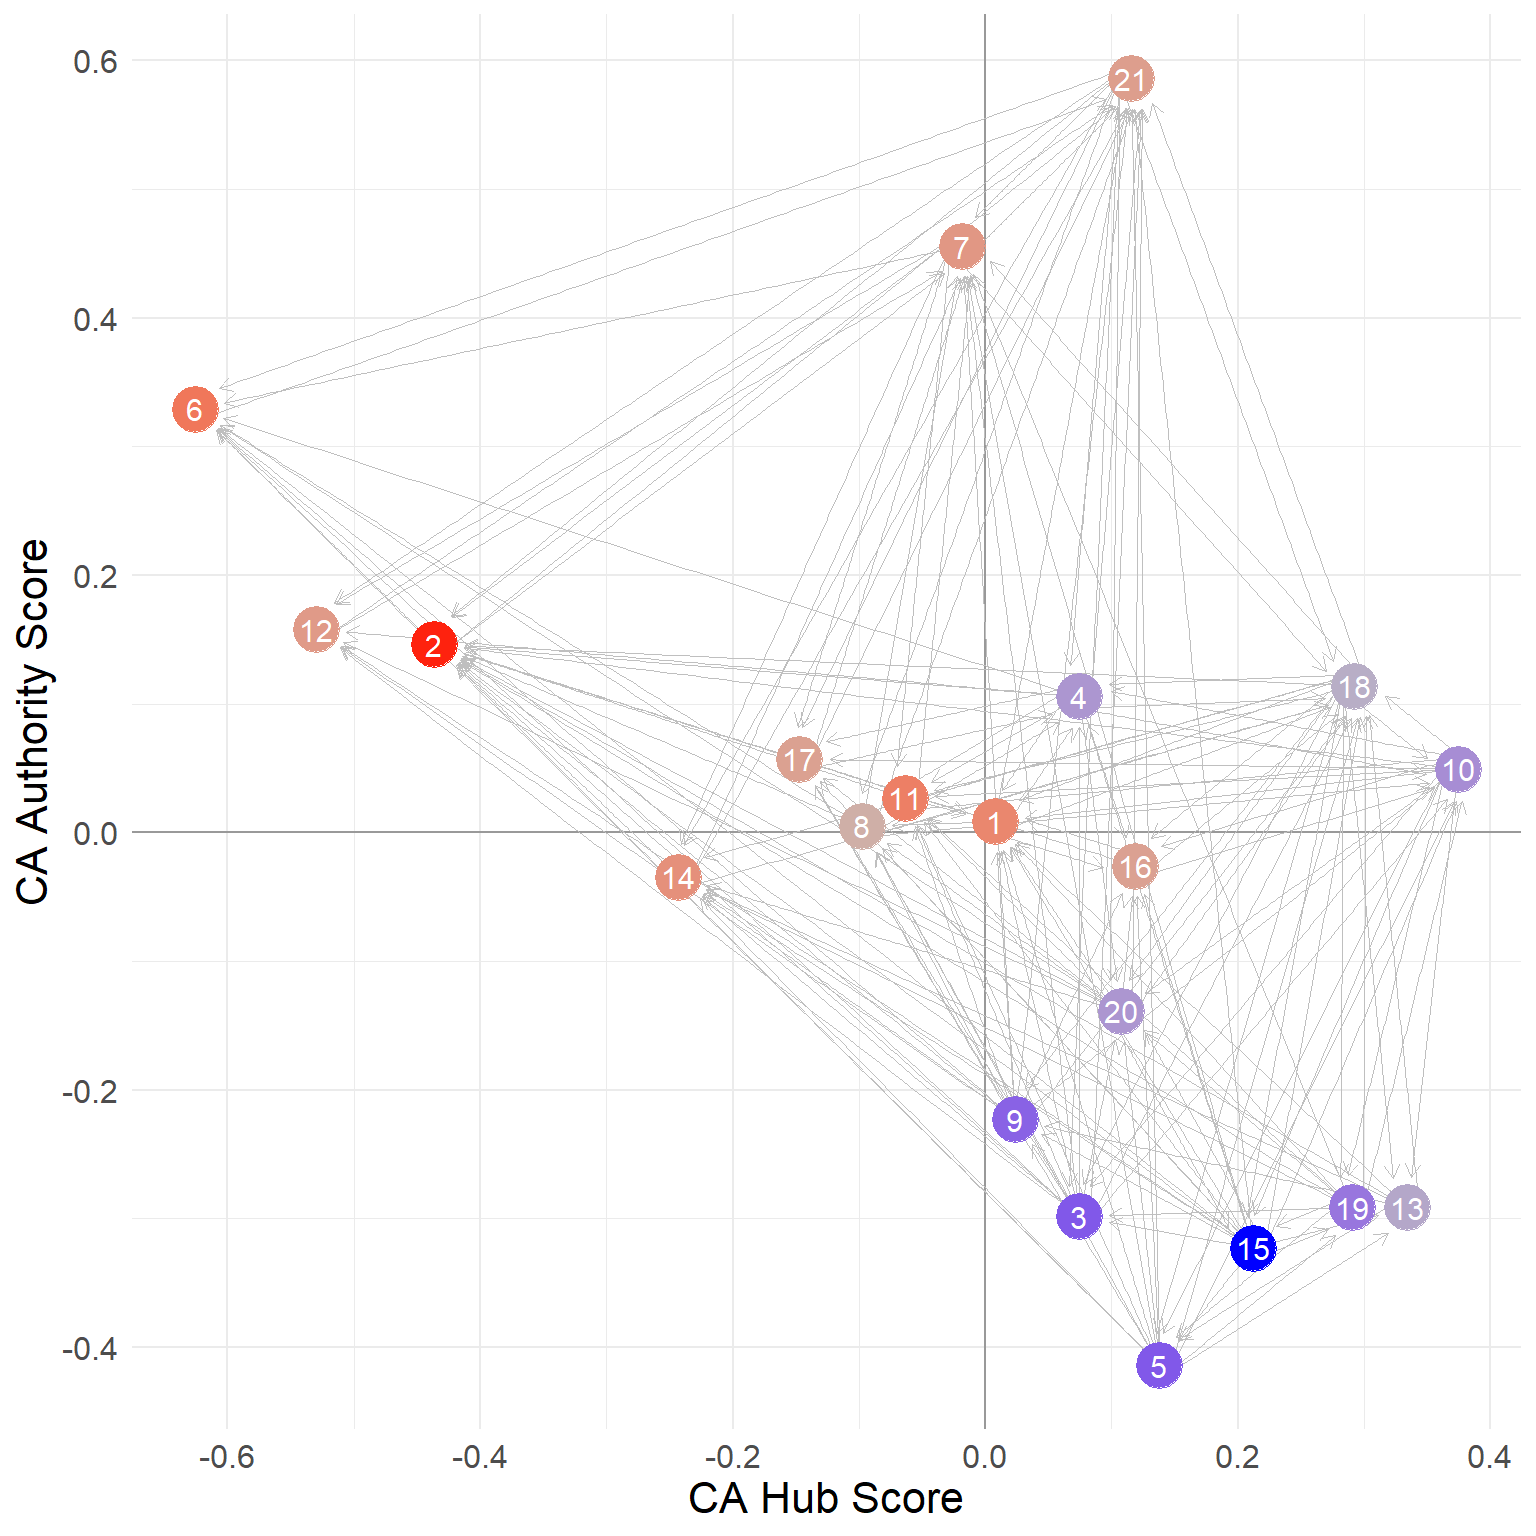
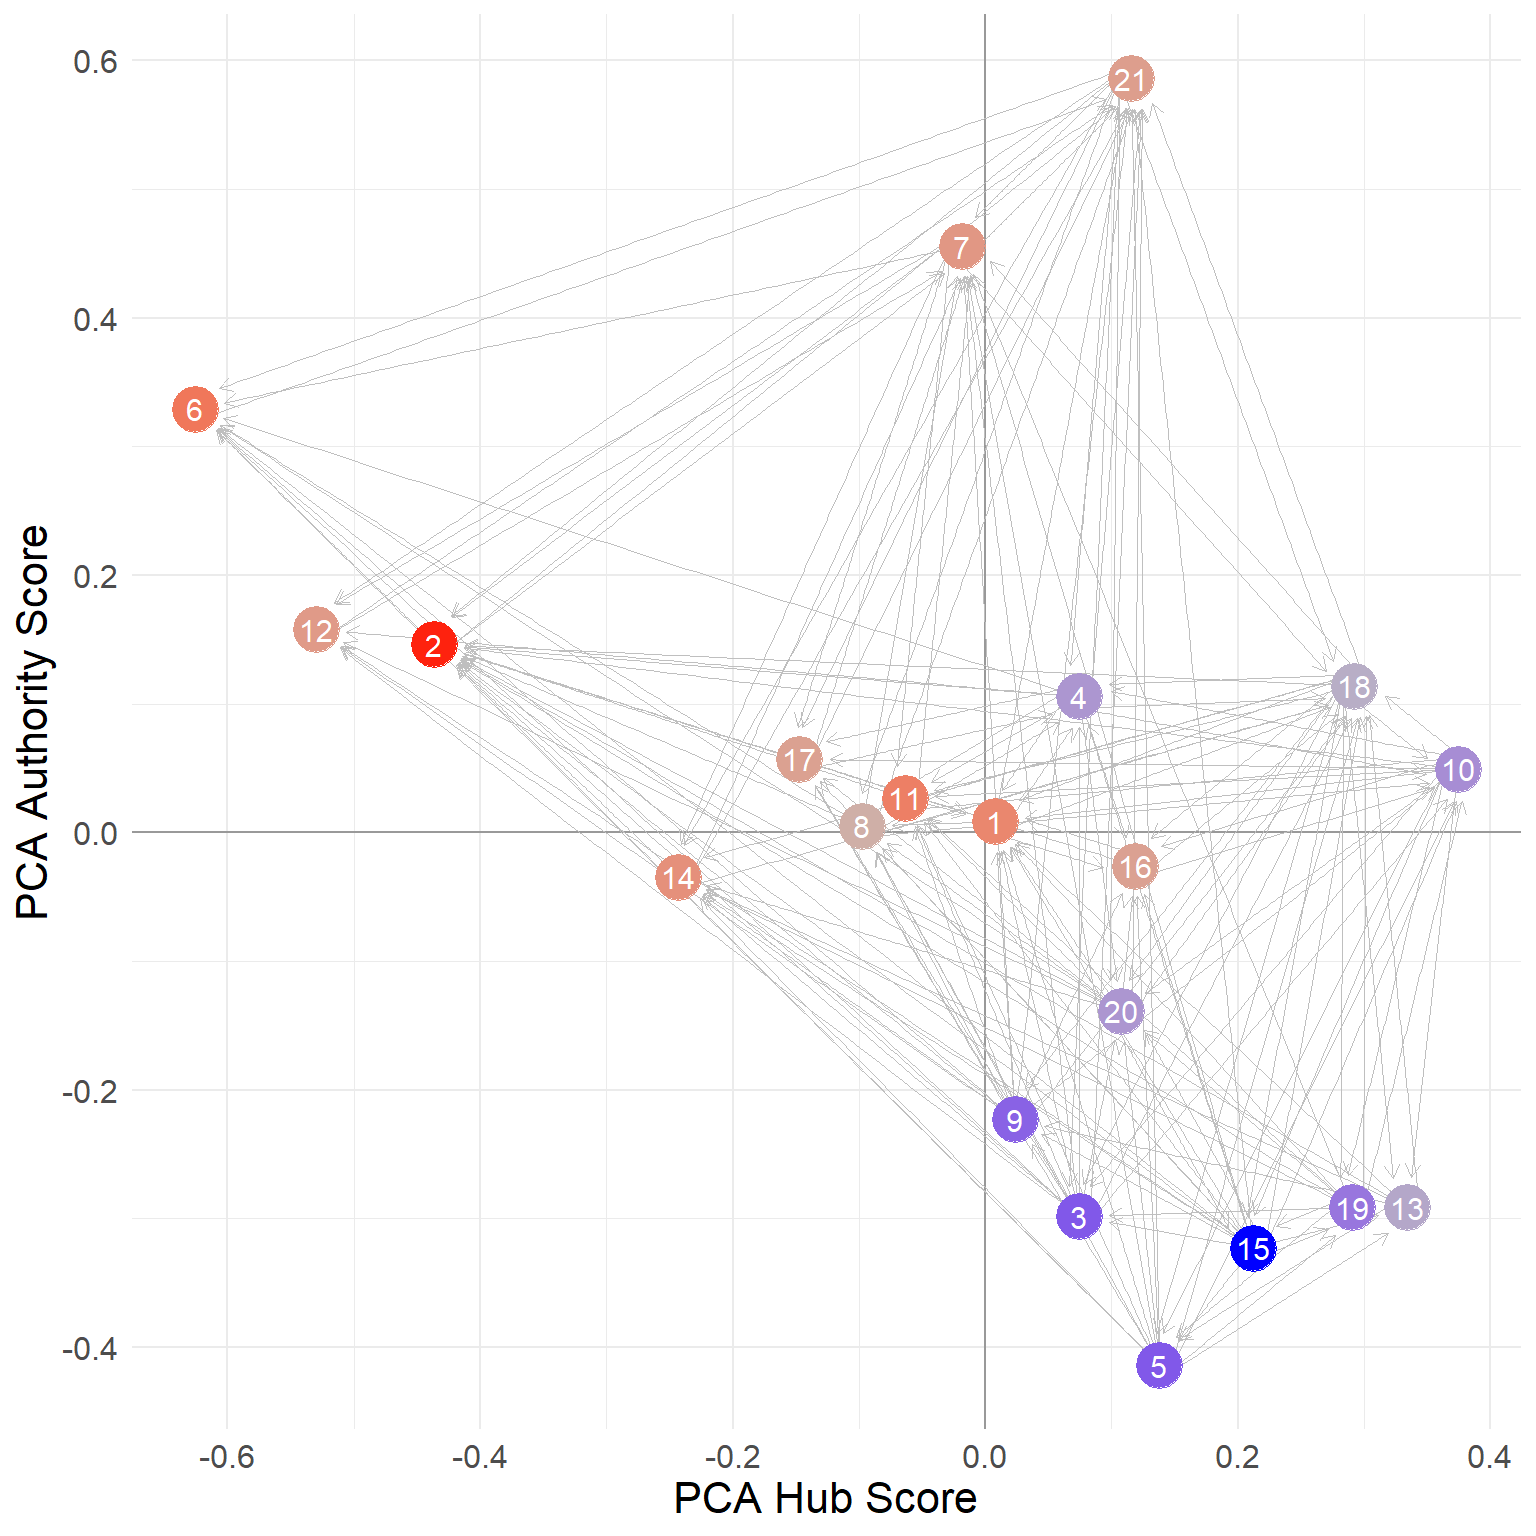
hubs and auths

Changed region(s): [[0.0, 0.3438, 0.0312, 0.5938], [0.4375, 0.9688, 0.6562, 1.0]]

diff --git a/docs/prestige.html b/docs/prestige.html
@@ -691,7 +691,7 @@ div.csl-indent {
 </section>
 <section id="a-degree-normalized-model-of-status-aka-pagerank" class="level2">
 <h2 class="anchored" data-anchor-id="a-degree-normalized-model-of-status-aka-pagerank">A Degree-Normalized Model of Status (AKA PageRank)</h2>
-<p>Note that the model of status distribution implied by the Bonacich’s <strong>Eigenvector Centrality</strong> just reviewed implies that each actor distributes the same amount of status <em>independently</em> of the number of connections they have. Status just replicates indefinitely. Thus, a node with a 100 friends has 100 status units to distribute to each of them and a node with a 10 friends has 10 units.</p>
+<p>Note that the model of status distribution implied by the Eigenvector Centrality approach just reviewed implies that each actor distributes the same amount of status <em>independently</em> of the number of connections they have. Status just replicates indefinitely. Thus, a node with a 100 friends has 100 status units to distribute to each of them and a node with a 10 friends has 10 units.</p>
 <p>This is why the eigenvector idea rewards nodes who are connected to popular others more. Even though everyone begins with a single unit of status, well-connected nodes by degree end up having more of it to distribute.</p>
 <p>But what if status propagated in the network proportionately to the number of connections one had? For instance, if someone has 100 friends and they only had so much time or energy, they would only have a fraction of status to distribute to others than a person with 10 friends.</p>
 <p>In that case, the node with a hundred friends would only have 1/100 of status units to distribute to each of their connections while the node with 10 friends would have 1/10 units. Under this formulation, being connected to <em>discerning</em> others, that is people who only connect to a few, is better than being connected to others who connect to everyone else indiscriminately.</p>
@@ -727,7 +727,8 @@ div.csl-indent {
 <div class="cell">
 <div class="sourceCode cell-code" id="cb20"><pre class="sourceCode numberSource r number-lines code-with-copy"><code class="sourceCode r"><span id="cb20-1"><a href="#cb20-1"></a>   P <span class="ot">&lt;-</span> D.o <span class="sc">%*%</span> A</span></code><button title="Copy to Clipboard" class="code-copy-button"><i class="bi"></i></button></pre></div>
 </div>
-<p>So this is the original adjacency matrix, in which each non-zero entry is equal to one divided by the outdegree of the corresponding node in each row.</p>
+<p>Recalling that <code>%*%</code> is the <code>R</code> matrix multiplication operator.</p>
+<p>So the resulting <span class="math inline">\(\mathbf{P}\)</span> is the original adjacency matrix, in which each non-zero entry is equal to one divided by the outdegree of the corresponding node in each row.</p>
 <p>Here are the first 10 rows and columns of the new matrix:</p>
 <div class="cell">
 <div class="sourceCode cell-code" id="cb21"><pre class="sourceCode numberSource r number-lines code-with-copy"><code class="sourceCode r"><span id="cb21-1"><a href="#cb21-1"></a>   <span class="fu">round</span>(P[<span class="dv">1</span><span class="sc">:</span><span class="dv">10</span>, <span class="dv">1</span><span class="sc">:</span><span class="dv">10</span>], <span class="dv">2</span>)</span></code><button title="Copy to Clipboard" class="code-copy-button"><i class="bi"></i></button></pre></div>
@@ -1294,7 +1295,7 @@ div.csl-indent {
 </div>
 </div>
 <p>Note that for the SALSA scores we use a different normalization compared to before. Instead of dividing by the maximum, we divide by the sum, so that the vector of SALSA hub and authority scores sum to 1.0.</p>
-<p>The reason for this is that, as <span class="citation" data-cites="fouss_etal04">Fouss, Renders, and Saerens (<a href="#ref-fouss_etal04" role="doc-biblioref">2004</a>)</span> explain, these numbers have a straightforward interpretation in terms of the <em>probability</em> that a random walker in the network will find itself in that particular node, when the walker goes from hub -&gt; authority -&gt; hub -&gt; authority (e.g., never going from hub to hub or authority to authority) using the entries in the <code>P.a</code> and <code>P.h</code> matrices to determine the probability of jumping from hub <span class="math inline">\(i\)</span> to authority <span class="math inline">\(j\)</span> and vice versa. Thus, the higher the probability the more “central” the specific hub or authority is.</p>
+<p>The reason for this is that, as <span class="citation" data-cites="fouss_etal04">Fouss, Renders, and Saerens (<a href="#ref-fouss_etal04" role="doc-biblioref">2004</a>)</span> explain, these numbers have a straightforward interpretation in terms of the <em>probability</em> that a random walker in the network will find itself in that particular node, when the walker goes from hub -&gt; authority -&gt; hub -&gt; authority (e.g., never going from hub to hub or authority to authority) using the entries in the <code>P.a</code> and <code>P.h</code> matrices to determine the probability of jumping from hub <span class="math inline">\(i\)</span> to authority <span class="math inline">\(j\)</span> and vice versa. Thus, the higher the probability the more “central” the specific hub or authority is, just like the random walk interpretation of the PageRank scores.</p>
 <!--We could, of course, create "Google" versions of these matrices and compute our SALSA version of the hub and authorities scores by incorporating a damping factor, teleportation, and all the rest [@rafiei_mendelzon00]. -->
 </section>
 <section id="hits-versus-principal-components-analysis" class="level2">
@@ -1682,21 +1683,35 @@ div.csl-indent {
 </div>
 </div>
 </div>
-<p>Using information in <a href="#tbl-ha">Table&nbsp;1</a>, <a href="#fig-ca">Figure&nbsp;2</a> shows a point and line network plot but using the CA hub and authority scores to embed the nodes in a common two-dimensional space. In the plot nodes are colored by the <em>difference</em> between their SALSA hub and authority scores such that nodes with positive scores (hub score larger than their authority scores) appear in blue and nodes with negative scores (authority scores larger than their hub scores) appear in red.</p>
-<div class="cell">
-<div class="cell-output-display">
-<div id="fig-ca" class="quarto-figure quarto-figure-center anchored">
+<p>Using information in <a href="#tbl-ha">Table&nbsp;1</a>, <a href="#fig-ca-1">Figure&nbsp;2 (a)</a> shows a point and line network plot but using the CA hub and authority scores to embed the nodes in a common two-dimensional space. In the plot nodes are colored by the <em>difference</em> between their SALSA hub and authority scores such that nodes with positive scores (hub score larger than their authority scores) appear in blue and nodes with negative scores (authority scores larger than their hub scores) appear in red.</p>
+<div id="fig-ca" class="cell quarto-layout-panel">
 <figure class="figure">
-<p><img src="prestige_files/figure-html/fig-ca-1.png" class="img-fluid figure-img" width="768"></p>
-<p></p><figcaption class="figure-caption">Figure&nbsp;2: Krackhardt’s managers advice network (top hubs in blue and top authorities in red)</figcaption><p></p>
+<div class="quarto-layout-row quarto-layout-valign-top">
+<div class="cell-output-display quarto-layout-cell quarto-layout-cell-subref" style="flex-basis: 50.0%;justify-content: center;">
+<div id="fig-ca-1" class="quarto-figure quarto-figure-center anchored">
+<figure class="figure">
+<p><img src="prestige_files/figure-html/fig-ca-1.png" class="img-fluid figure-img" data-ref-parent="fig-ca" width="768"></p>
+<p></p><figcaption class="figure-caption">(a) CA Coordinates</figcaption><p></p>
 </figure>
 </div>
 </div>
+<div class="cell-output-display quarto-layout-cell quarto-layout-cell-subref" style="flex-basis: 50.0%;justify-content: center;">
+<div id="fig-ca-2" class="quarto-figure quarto-figure-center anchored">
+<figure class="figure">
+<p><img src="prestige_files/figure-html/fig-ca-2.png" class="img-fluid figure-img" data-ref-parent="fig-ca" width="768"></p>
+<p></p><figcaption class="figure-caption">(b) PCA Coordinates</figcaption><p></p>
+</figure>
+</div>
+</div>
+</div>
+<p></p><figcaption class="figure-caption">Figure&nbsp;2: Krackhardt’s managers advice network (top hubs in blue and top authorities in red)</figcaption><p></p>
+</figure>
 </div>
 <p>We can see that the CA hub score places the hubbiest of hubs (blue nodes) in the lower-right quadrant of the diagram, with positive CA hub scores and negative CA authority scores (this last multiplied by minus one from the ones shown above). Note from <a href="#tbl-ha">Table&nbsp;1</a>, that the nodes in this region (e.g.&nbsp;{15, 5, 3, 19, 9, 13}) all have large SALSA hub scores and very low SALSA authority scores.</p>
 <p>In the same way, the most authoritative of authorities (red nodes) appear in the upper-left side, with negative CA hub scores and positive CA authority scores. Note that nodes in this region have very large SALSA authority scores and very low SALSA hub scores.</p>
 <p>Finally, note that nodes in the upper-right quadrant of the diagram (e.g.&nbsp;{21, 7, 4, 18, 10}) are “ambidextrous” nodes, showcasing relatively large scores as both hubs and authorities according to SALSA.</p>
 <p>Thus what the CA scores seem to be doing is separating out the purest examples of hubs and authorities in the network from those who play both roles.</p>
+<p>Note that as shown in <a href="#fig-ca-2">Figure&nbsp;2 (b)</a>, we get an even stronger separation between hubs and authorities when using the PCA scores to place nodes in a common space, with all the authorities (except nodes 7 and 21) to the upper left, and the hubs on the right-hand side of the plot.</p>
 </section>
 <section id="a-hybrid-pagerankhits-approach" class="level2">
 <h2 class="anchored" data-anchor-id="a-hybrid-pagerankhits-approach">A Hybrid PageRank/HITS Approach</h2>
